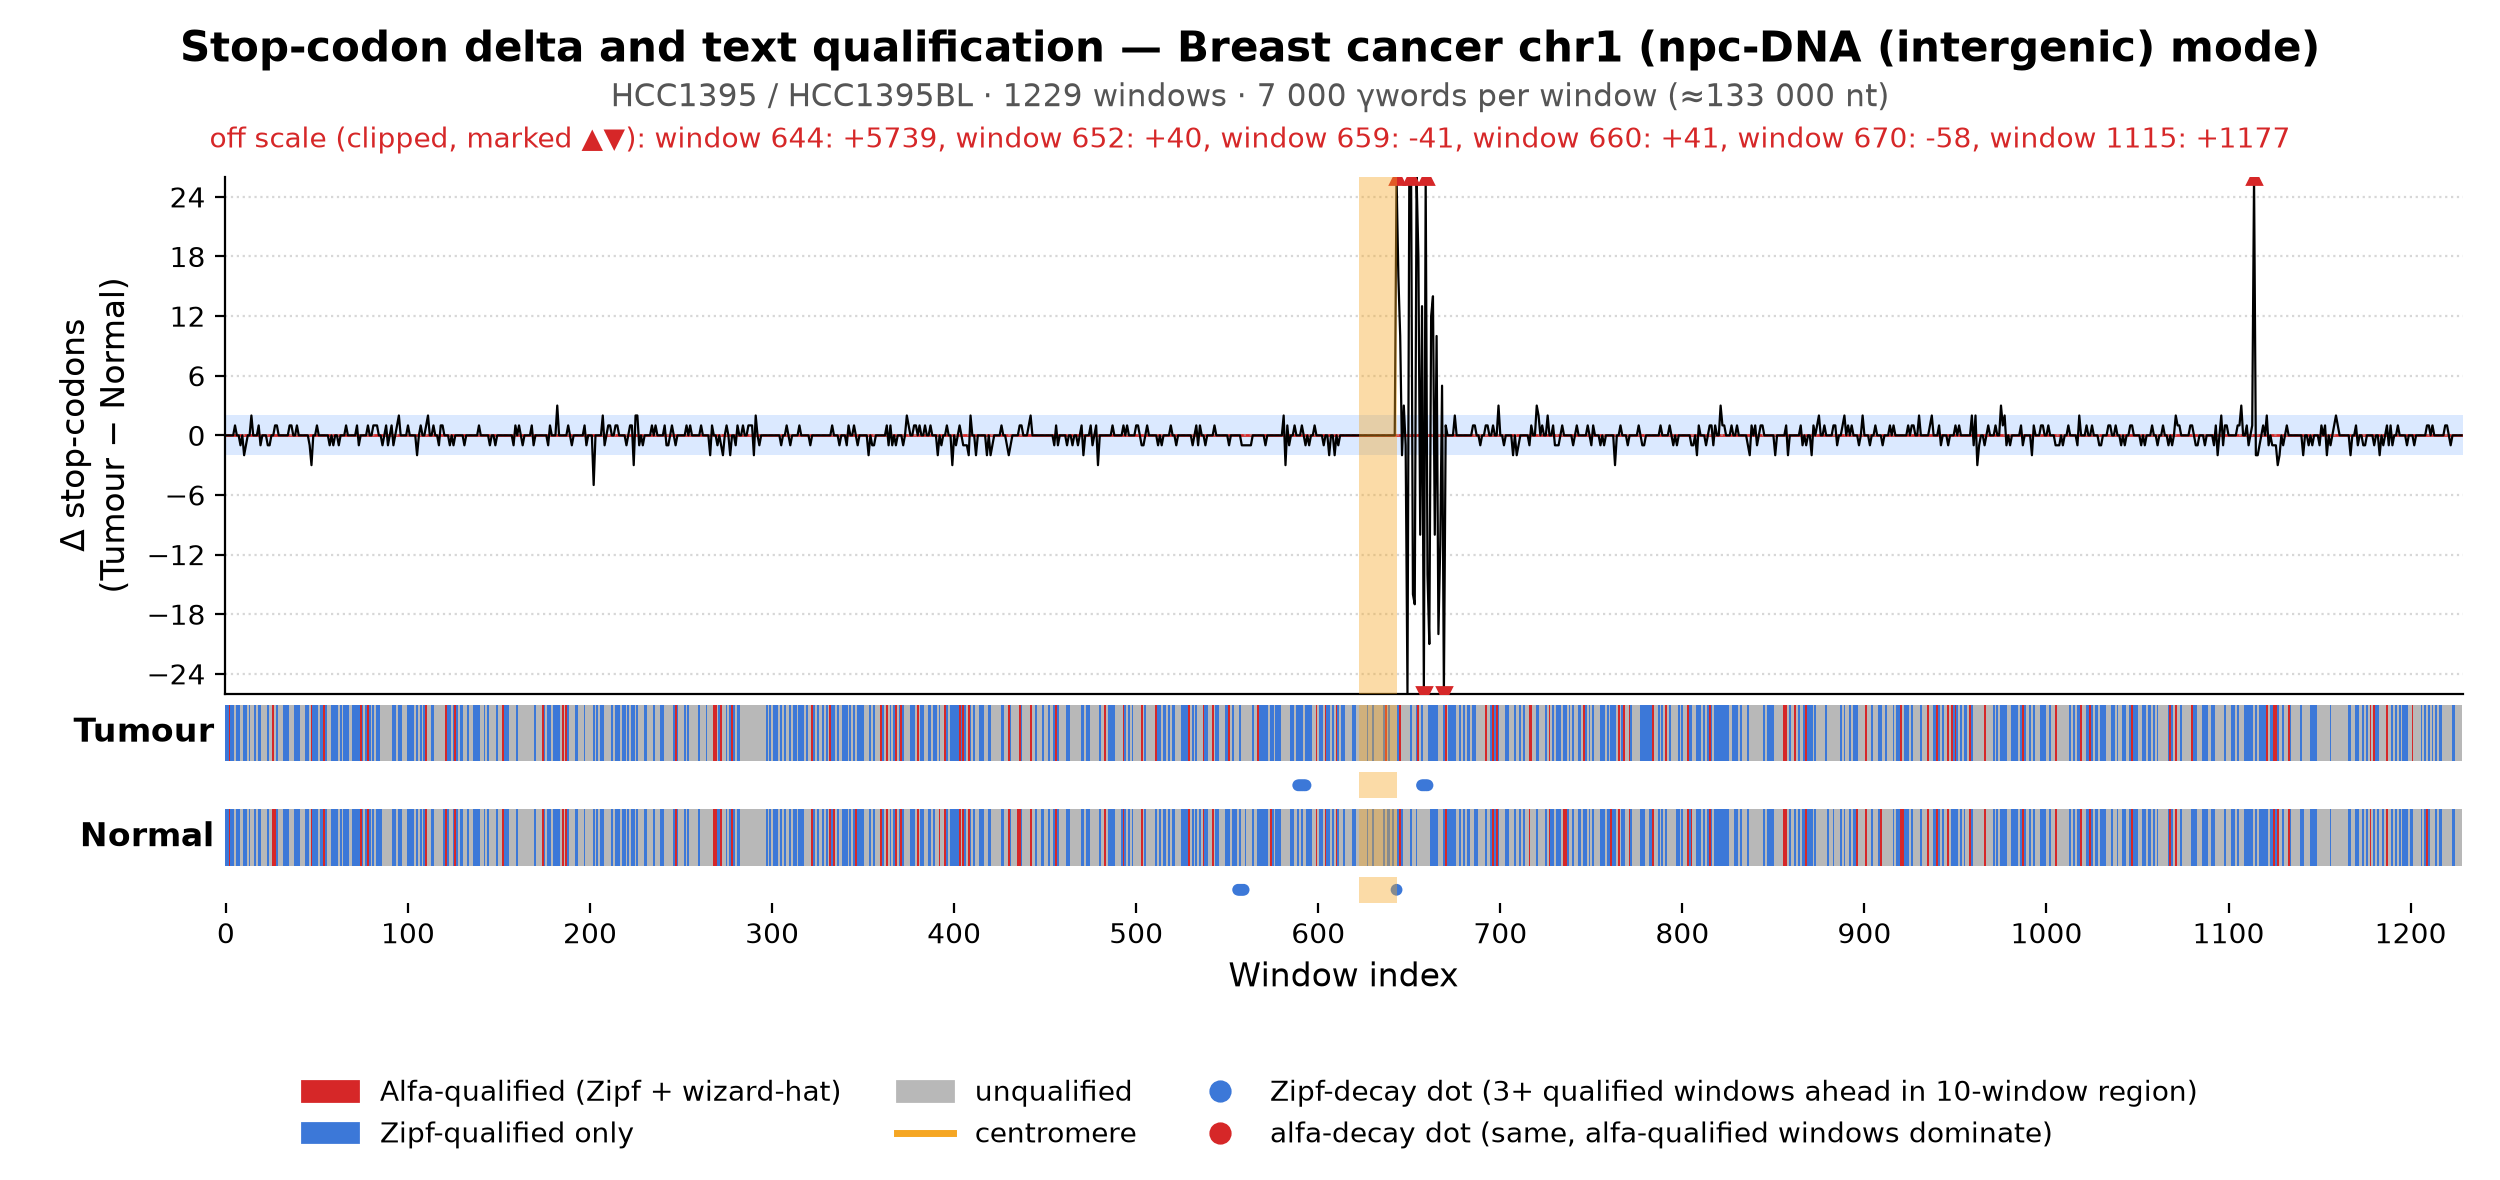
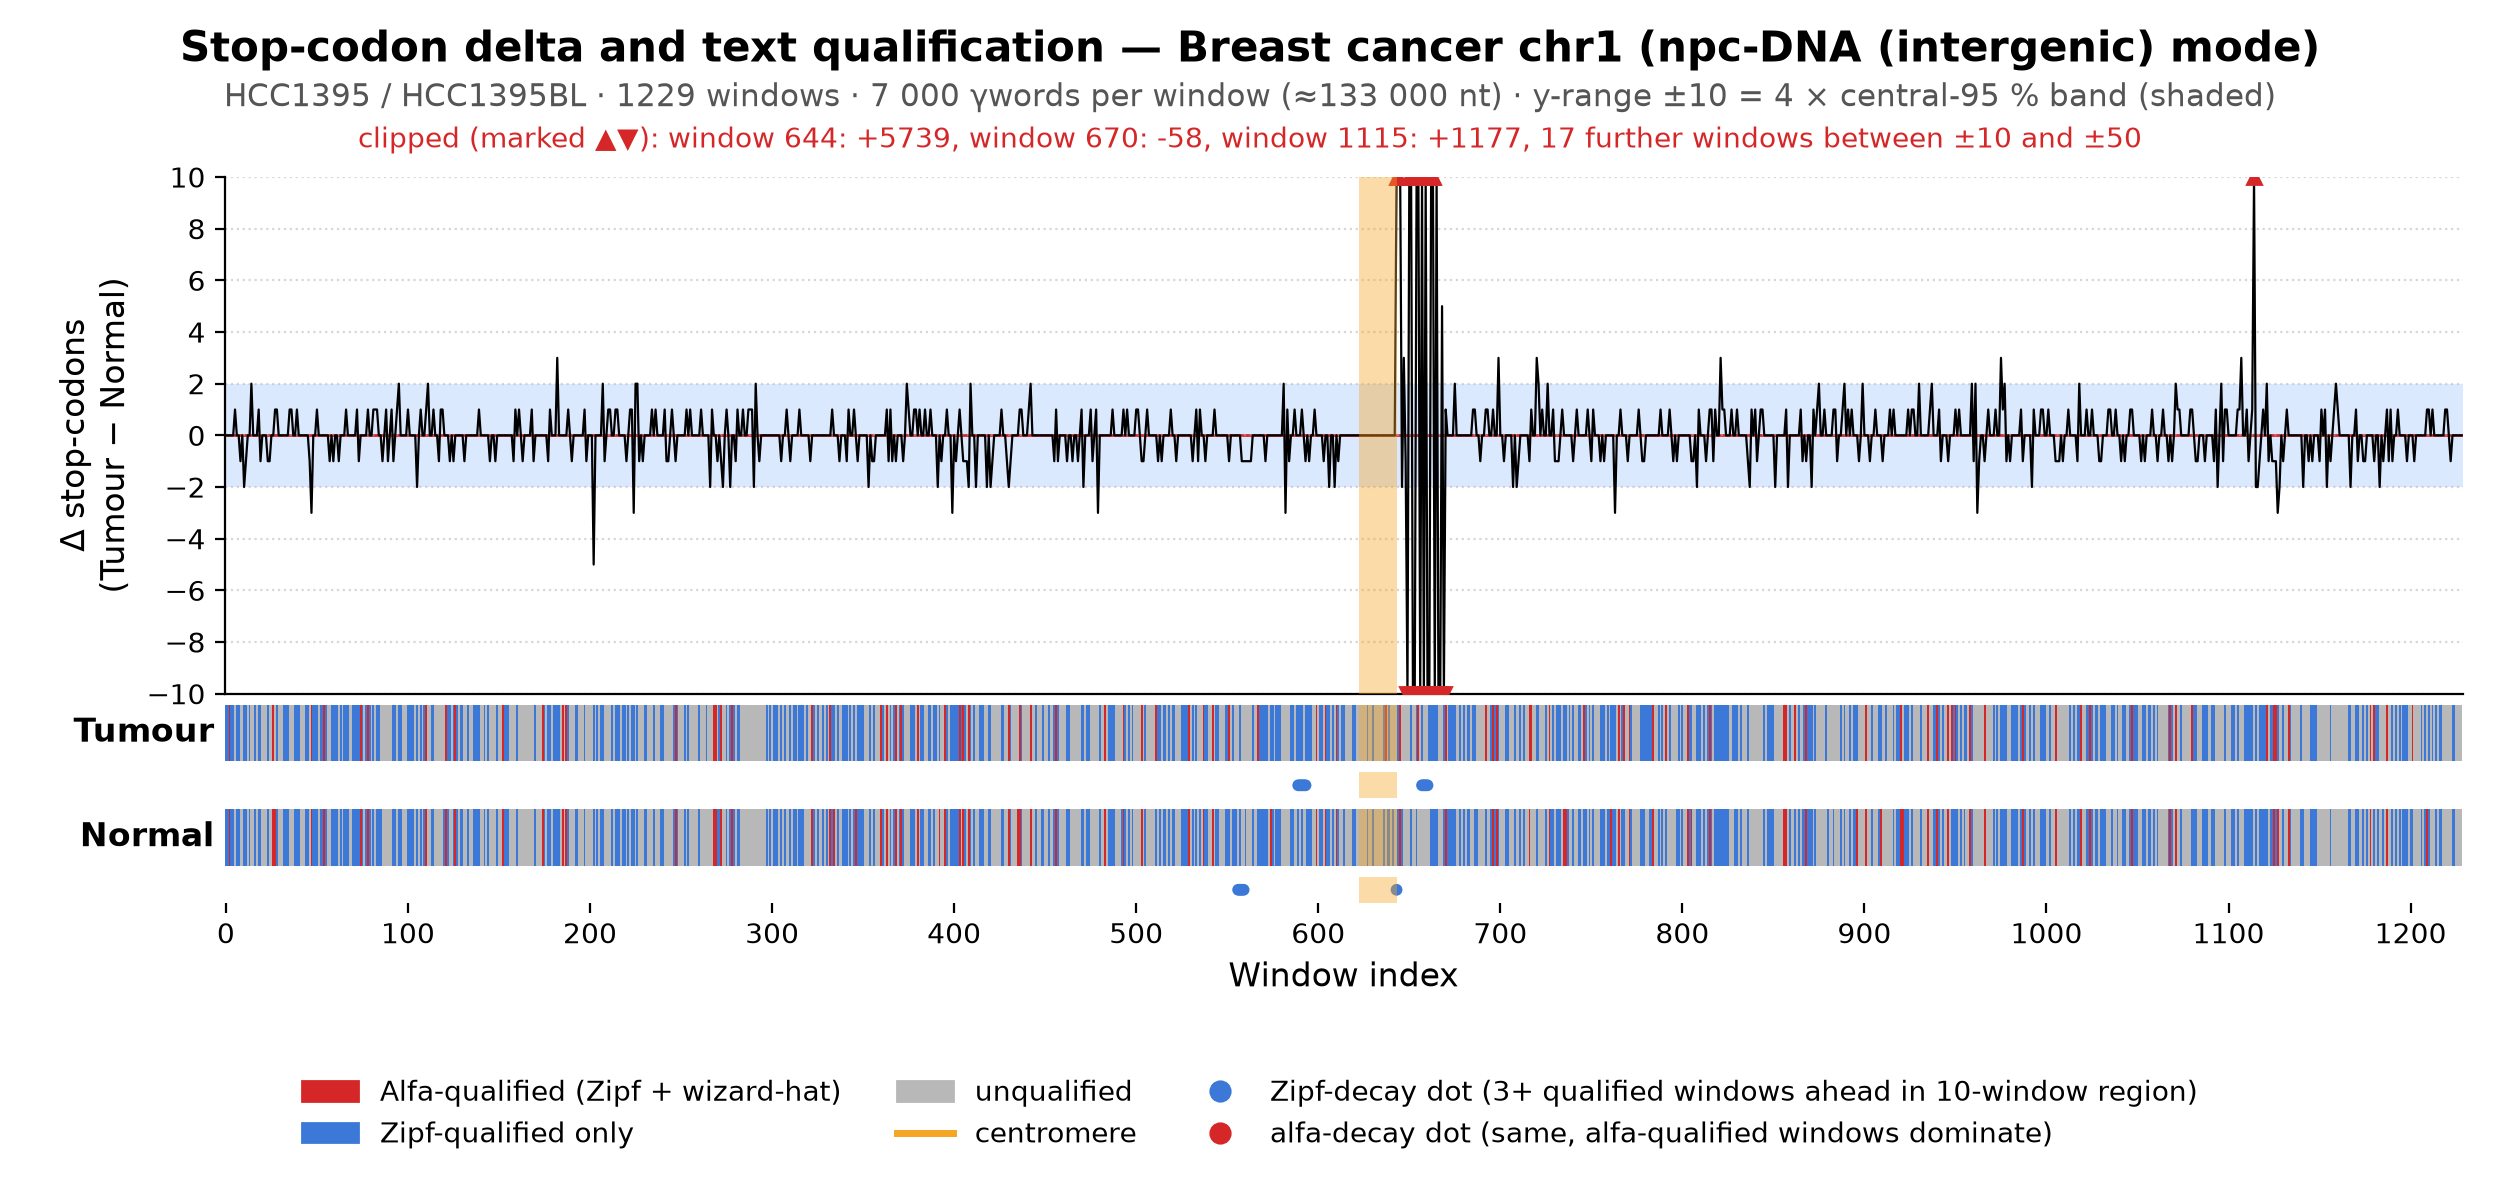
Figures: one y-scale per chromosome (4x the wider 95 % band, floor 5/10), correct centre of a short last group, notes only for peaks beyond 50

diff --git a/figures/make_figures.py b/figures/make_figures.py
@@ -8,7 +8,7 @@ Appendix_1 (plaited DNA-scopes, npc-DNA, 3 A4 pages) and Appendix_2 (pc-DNA),
 plus tables.md with the DFA summaries. Decay-dot and centromere logic mirrors
 DecayGapDfa / StopCodonAlphaComparison.FindCentromereWindowRange in the C# code.
 """
-import argparse, bisect, csv, glob, json, os, textwrap
+import argparse, bisect, csv, glob, json, math, os, textwrap
 import matplotlib
 matplotlib.use("Agg")
 import matplotlib.pyplot as plt
@@ -253,17 +253,19 @@ def dnascope(exp, ds, out, pair_key, sample_label, pair_ids, chrom, mode, name):
     fig = plt.figure(figsize=(12.5, 5.9), dpi=200)
     gs = fig.add_gridspec(5, 1, height_ratios=[10, 1.1, 0.5, 1.1, 0.5], hspace=0.08, left=0.09, right=0.985, top=0.85, bottom=0.235)
     ax = fig.add_subplot(gs[0]); ax_t = fig.add_subplot(gs[1]); dot_t = fig.add_subplot(gs[2]); ax_n = fig.add_subplot(gs[3]); dot_n = fig.add_subplot(gs[4])
-    lo, hi = percentile(d, 2.5), percentile(d, 97.5)
+    ylim, lo, hi = panel_scale(d, 10)
     ax.axhspan(lo, hi, color=BAND, lw=0, zorder=0)
-    ylim = max(10, int(percentile([abs(v) for v in d], 99.5) + 0.999))   # per-panel scale: 99.5 % of |Δ| inside, floor ±10
     clipped = [max(-ylim, min(ylim, v)) for v in d]
     ax.plot(range(n), clipped, color="black", lw=0.8, zorder=2); ax.axhline(0, color=RED, lw=1, zorder=1)
     off = [(i, v) for i, v in enumerate(d) if abs(v) > ylim]
     for i, v in off: ax.plot(i, ylim if v > 0 else -ylim, marker="^" if v > 0 else "v", color=RED, ms=5, zorder=3)
     ax.set_ylim(-ylim, ylim); ax.yaxis.set_major_locator(MaxNLocator(integer=True))
+    ax.set_yticks(sorted({t for t in ax.get_yticks() if abs(t) <= 0.8 * ylim} | {-ylim, ylim}))
     if off:
-        fig.text(0.5, 0.875, "off scale (clipped, marked ▲▼): " + ", ".join(f"window {i + 1}: {v:+d}" for i, v in off[:6]) + (" …" if len(off) > 6 else ""),
-                 ha="center", fontsize=10, color=RED)
+        major = [(i, v) for i, v in off if abs(v) > 50]; minor = len(off) - len(major)
+        txt = ", ".join(f"window {i + 1}: {v:+d}" for i, v in major[:6]) + (" …" if len(major) > 6 else "")
+        if minor: txt += (", " if txt else "") + f"{minor} further window{'s' if minor > 1 else ''} between ±{ylim} and ±50"
+        fig.text(0.5, 0.875, "clipped (marked ▲▼): " + txt, ha="center", fontsize=10, color=RED)
     for cen in centromere_ranges(chrom, rows, mode, ds[pair_key.replace("_alpha", "_normal")]):
         for a in (ax, ax_t, dot_t, ax_n, dot_n): a.axvspan(cen[0] - 0.5, cen[1] + 0.5, color=AMBER, alpha=0.4, lw=0, zorder=4)
     ax.set_xlim(-0.5, n - 0.5); ax.set_xticks([]); ax.set_ylabel("Δ stop-codons\n(Tumour − Normal)", fontsize=12)
@@ -273,7 +275,8 @@ def dnascope(exp, ds, out, pair_key, sample_label, pair_ids, chrom, mode, name):
     ax_n.set_ylabel("Normal", rotation=0, ha="right", va="center", fontsize=12, weight="bold")
     dot_n.set_xticks(range(0, n, 100)); dot_n.set_xticklabels([str(x) for x in range(0, n, 100)], fontsize=10); dot_n.set_xlabel("Window index", fontsize=12)
     fig.suptitle(f"Stop-codon delta and text qualification — {sample_label} chr{chrom} ({MODE_LABEL[mode]} mode)", fontsize=15, weight="bold", y=0.975)
-    fig.text(0.5, 0.91, f"{pair_ids} · {n} windows · 7 000 γwords per window (≈133 000 nt)", ha="center", fontsize=11, color="#555")
+    fig.text(0.5, 0.91, f"{pair_ids} · {n} windows · 7 000 γwords per window (≈133 000 nt) · y-range ±{ylim} = 4 × central-95 % band (shaded)",
+             ha="center", fontsize=11, color="#555")
     fig.legend(handles=legend_handles(), loc="lower center", ncol=3, fontsize=10, frameon=False, bbox_to_anchor=(0.5, 0.005))
     fig.savefig(os.path.join(out, f"{name}.png")); plt.close(fig)
     return n
@@ -288,19 +291,22 @@ def panel(fig, gs_cell, exp, ds, chrom, mode):
     sub = gs_cell.subgridspec(10, 1, height_ratios=[6, 0.9, 0.5, 0.9, 0.5, 6, 0.9, 0.5, 0.9, 0.5], hspace=0.12)
     axes = [fig.add_subplot(sub[i]) for i in range(10)]
     notes = []
-    for k, (pair_key, label) in enumerate((("mel_alpha", "MEL"), ("bc_alpha", "BC"))):
-        rows = alpha_rows(exp, ds[pair_key], mode, chrom); d = rows["delta"]; n = len(d)
+    pairs = (("mel_alpha", "MEL"), ("bc_alpha", "BC"))
+    loaded = [alpha_rows(exp, ds[pk], mode, chrom) for pk, _ in pairs]
+    ylim = max(panel_scale(r["delta"], 5)[0] for r in loaded)          # one scale per chromosome, shared by both rows
+    for k, ((pair_key, label), rows) in enumerate(zip(pairs, loaded)):
+        d = rows["delta"]; n = len(d)
         a, bt, dt, bn, dn = axes[5 * k: 5 * k + 5]
-        lo, hi = percentile(d, 2.5), percentile(d, 97.5)
-        ylim = max(5, int(percentile([abs(v) for v in d], 99.5) + 0.999))   # per-panel scale: 99.5 % of |Δ| inside, floor ±5
+        _, lo, hi = panel_scale(d, 5)
         a.axhspan(lo, hi, color=BAND, lw=0, zorder=0); a.axhline(0, color=RED, lw=0.7, zorder=1)
-        off = []
         for i, mn, mx in grouped_minmax(d):
+            x = i + (len(d[i:i + 10]) - 1) / 2                             # centre of the group, also for a short last group
             cmn, cmx = max(mn, -ylim), min(mx, ylim)
-            a.plot([i + 5, i + 5], [cmn, cmx], color="black", lw=1.1, solid_capstyle="butt", zorder=2)
-            if mx > ylim: a.plot(i + 5, ylim, marker="^", color=RED, ms=3, zorder=3); off.append(mx)
-            if mn < -ylim: a.plot(i + 5, -ylim, marker="v", color=RED, ms=3, zorder=3); off.append(mn)
-        if off and max(abs(v) for v in off) >= 50: notes.append(f"{label} {max(off, key=abs):+d}")
+            a.plot([x, x], [cmn, cmx], color="black", lw=1.1, solid_capstyle="butt", zorder=2)
+            if mx > ylim: a.plot(x, ylim, marker="^", color=RED, ms=3, zorder=3)
+            if mn < -ylim: a.plot(x, -ylim, marker="v", color=RED, ms=3, zorder=3)
+        peak = max(d, key=abs)
+        if abs(peak) > 50: notes.append(f"{label} {peak:+d}")
         a.set_xlim(-0.5, n - 0.5); a.set_ylim(-ylim, ylim); a.set_xticks([])
         a.set_yticks([-ylim, 0, ylim]); a.set_yticklabels([f"−{ylim}", "0", f"+{ylim}"], fontsize=5, color="#666"); a.tick_params(axis="y", length=2, pad=1)
         a.set_ylabel(label, rotation=0, ha="right", va="center", fontsize=9, weight="bold")
@@ -316,7 +322,7 @@ def appendix(exp, ds, out, mode, name):
     pages = [CHROMS[0:8], CHROMS[8:16], CHROMS[16:24]]
     for p, chroms in enumerate(pages, start=1):
         fig = plt.figure(figsize=(8.27, 11.69), dpi=200)
-        gs = fig.add_gridspec(4, 2, left=0.07, right=0.98, top=0.868, bottom=0.075, hspace=0.35, wspace=0.18)
+        gs = fig.add_gridspec(4, 2, left=0.07, right=0.98, top=0.858, bottom=0.075, hspace=0.35, wspace=0.18)
         for k, chrom in enumerate(chroms):
             cell = gs[k % 4, k // 4]
             notes, n = panel(fig, cell, exp, ds, chrom, mode)
@@ -327,7 +333,7 @@ def appendix(exp, ds, out, mode, name):
         fig.suptitle(f"Stop-codon delta and text qualification — {MODE_LABEL[mode]} mode", fontsize=14, weight="bold", x=0.03, ha="left", y=0.975)
         sub = ("Melanoma (MEL, COLO829 / COLO829BL) over breast cancer (BC, HCC1395 / HCC1395BL). "
                f"{MODE_LABEL[mode]} mode, 7 000-γword windows (≈133 000 nt). Bars: min–max of Δ stop-codons (Tumour − Normal) in 10-window groups "
-               "(no peak lost); the vertical scale is set per panel so that 99.5 % of the windows fall inside it (tick labels give ±range); shaded band: central 95 % of Δ; red marks: values beyond the panel range, notes: peaks beyond ±50; orange: centromere "
+               "(no peak lost); shaded band: central 95 % of Δ; y-range per chromosome = 4 × the wider band, at least ±5 (tick labels); red marks: values beyond the range; notes: the largest |Δ| when above 50; orange: centromere "
                "(GRCh38 cytoband position mapped into the window index through the gene mask). "
                f"Page {p} of 3.")
         fig.text(0.03, 0.952, chr(10).join(textwrap.wrap(sub, 128)), fontsize=7.5, color="#444", va="top", linespacing=1.4)
@@ -355,6 +361,12 @@ def dfa_table(exp, ds, out):
 def percentile(values, p):
     s = sorted(values); k = (len(s) - 1) * p / 100; f = int(k); c = min(f + 1, len(s) - 1)
     return s[f] + (s[c] - s[f]) * (k - f)
+
+def panel_scale(deltas, floor):
+    """Symmetric y-range for a delta panel: four times the central-95 % band, at least ±floor.
+    A band-based rule is robust against the few huge single-window peaks (clipped and marked instead)."""
+    lo, hi = percentile(deltas, 2.5), percentile(deltas, 97.5)
+    return max(floor, math.ceil(4 * max(abs(lo), abs(hi)))), lo, hi
 
 
 def main():
